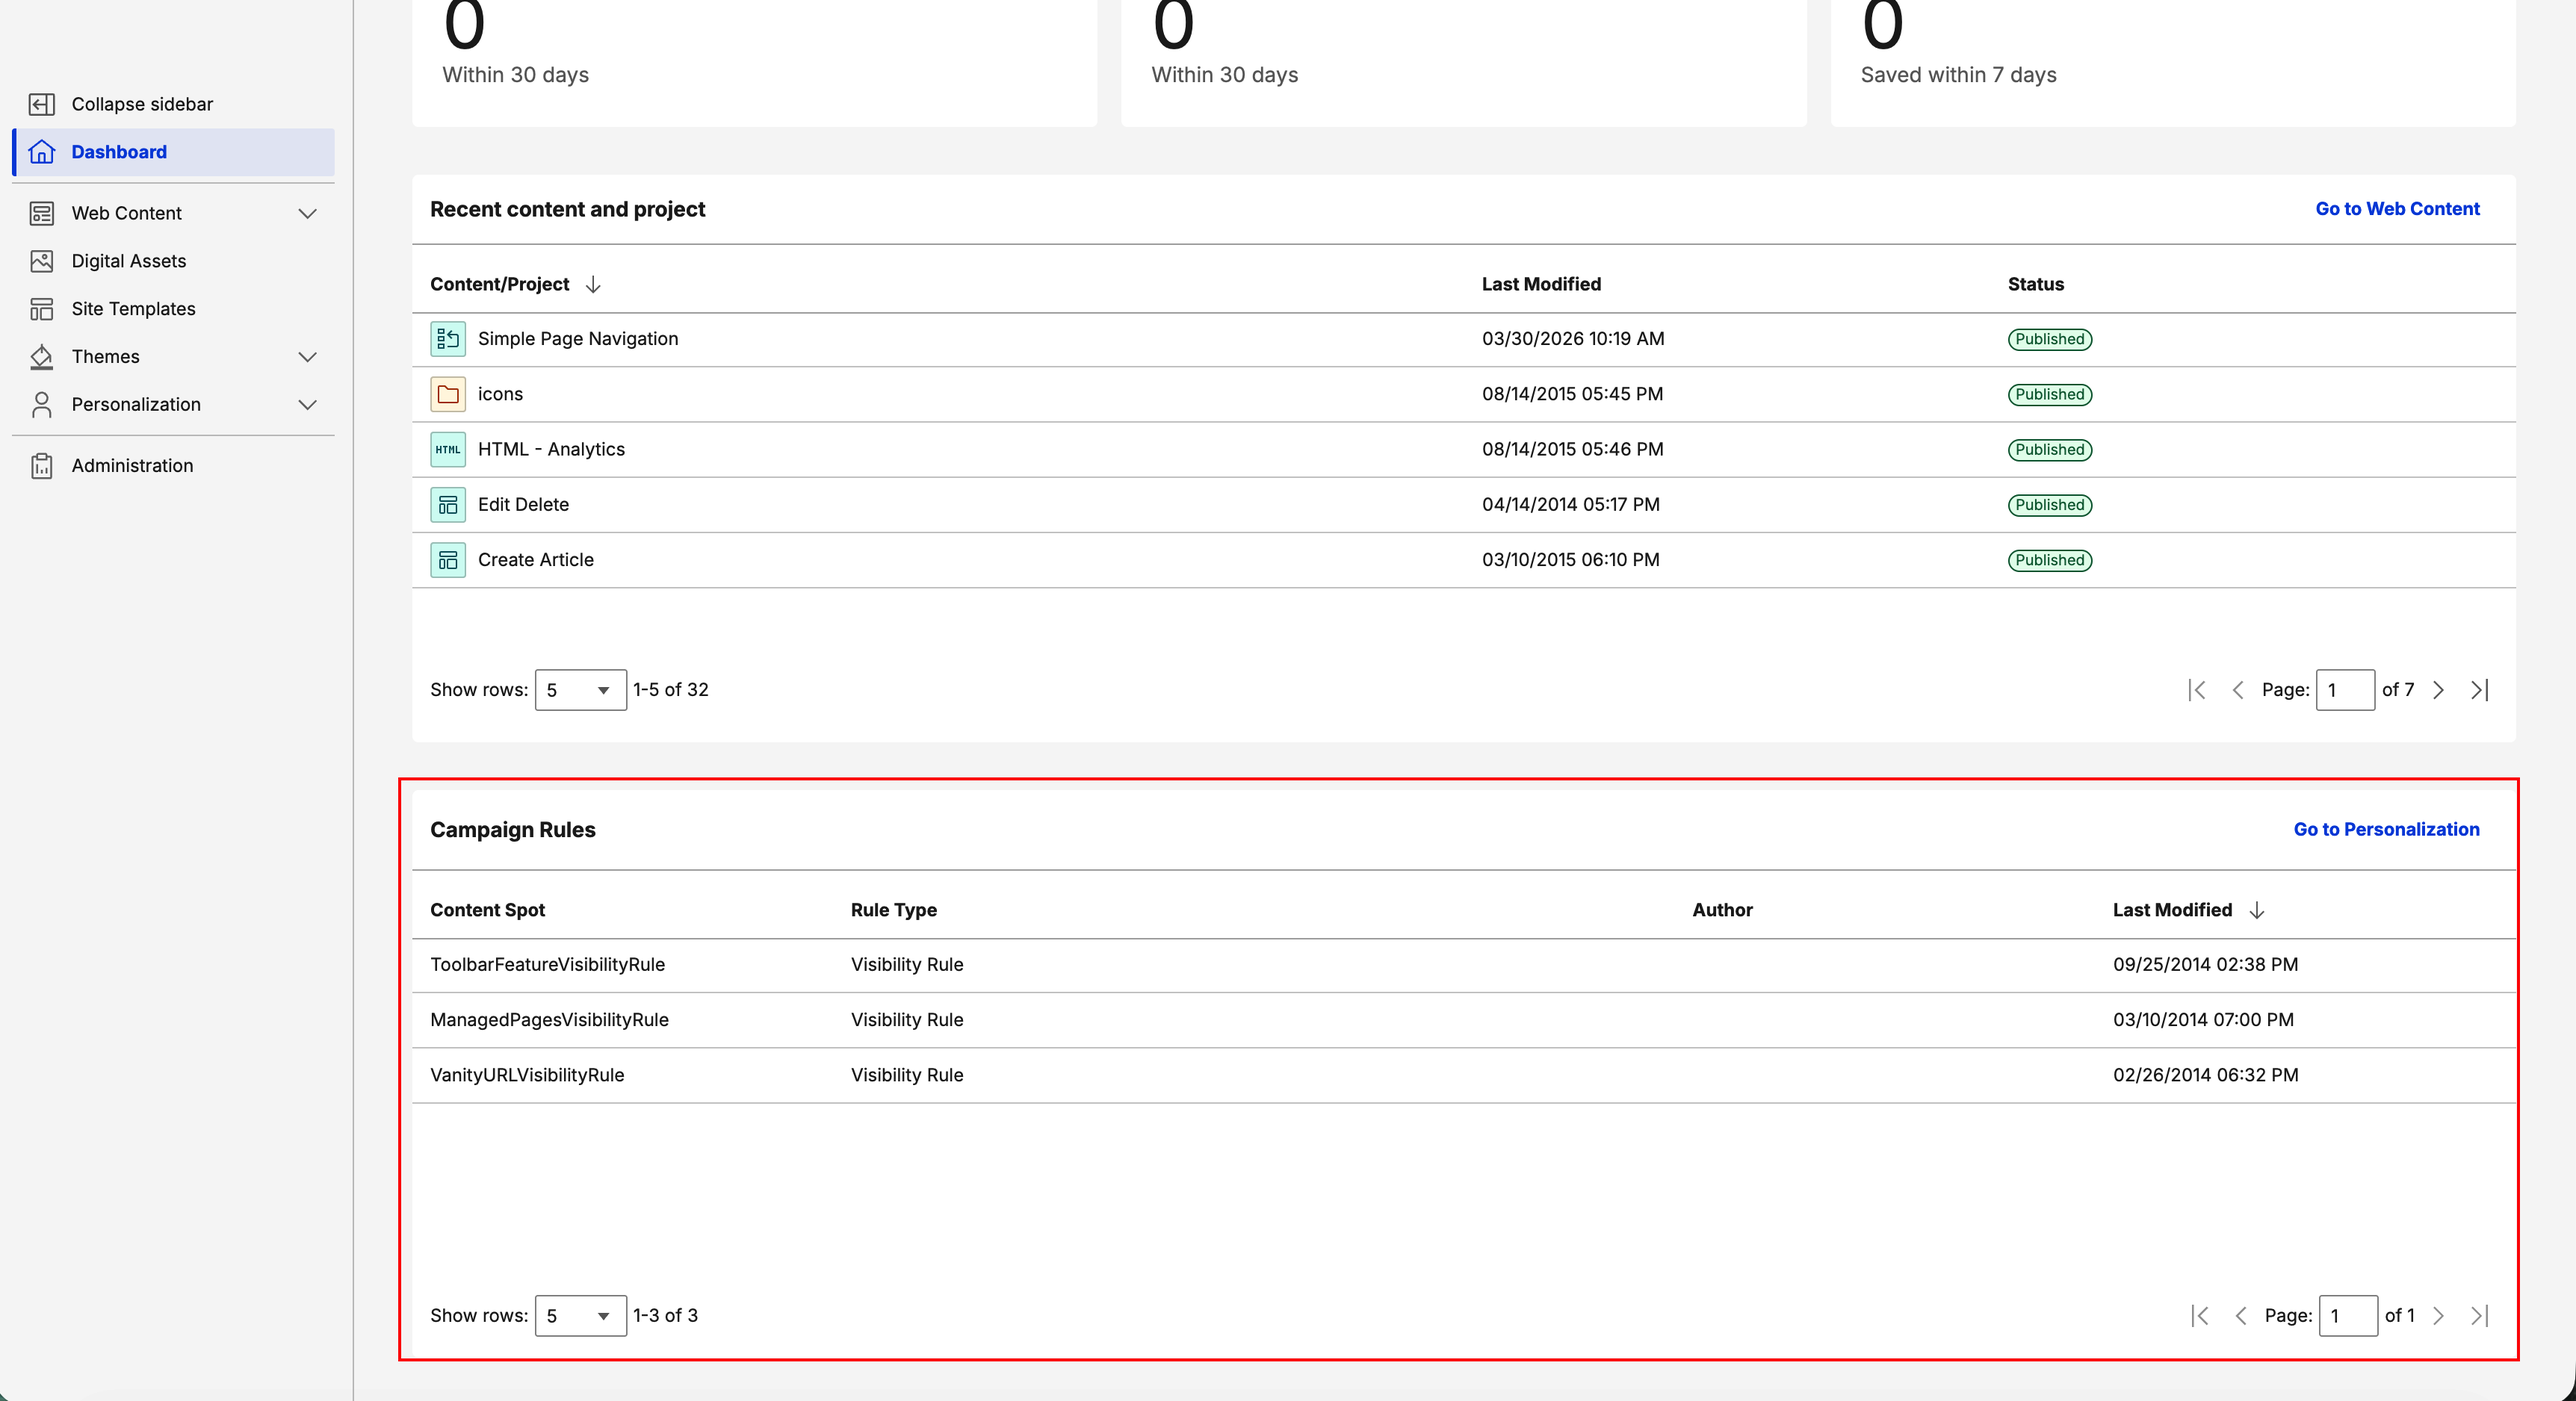
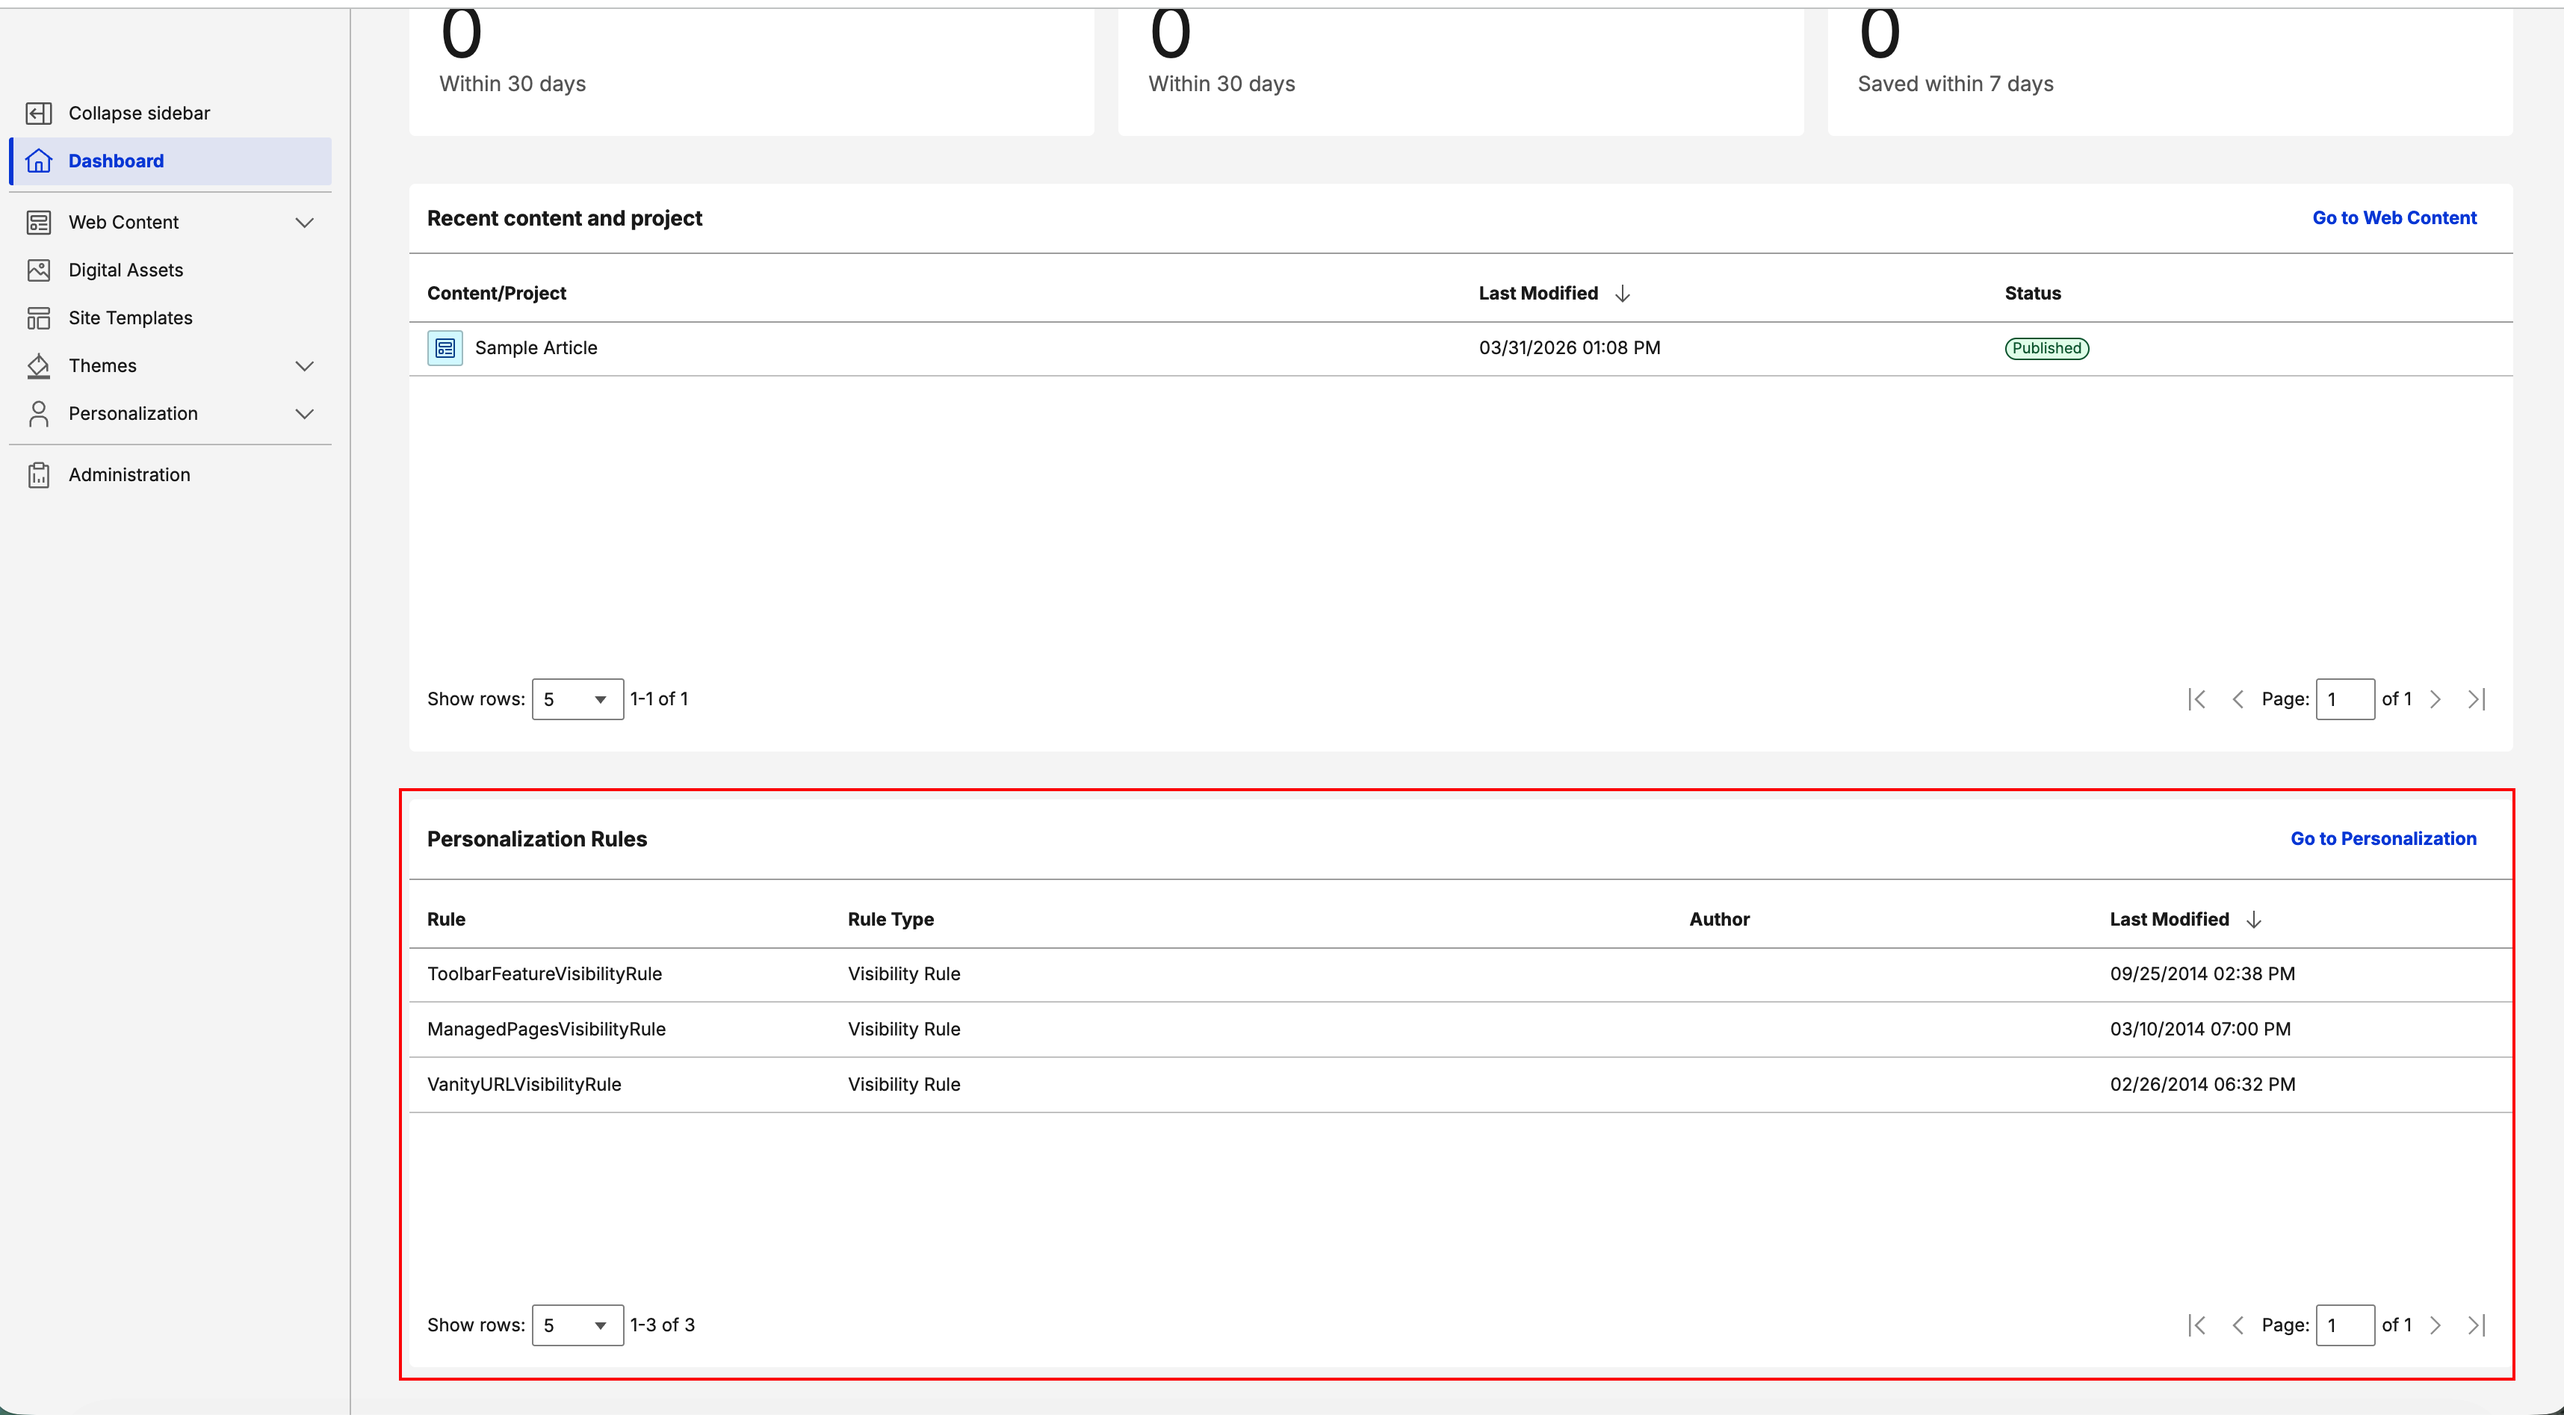
corrected sentence's

diff --git a/docs/build_sites/practitioner_studio/dashboard.md b/docs/build_sites/practitioner_studio/dashboard.md
@@ -2,16 +2,24 @@
 
 ## Overview
 
-The Practitioner Dashboard provides a personalized experience with widgets, action buttons, and quick links to help you access common tasks and information efficiently. The dashboard includes several key widgets: Tasks and Notifications for items that need approval or addressing, including expiring content; Recent Content Items for quick access to your latest work; and Personalization Rules (PZN) for managing user experiences. 
+The Practitioner Dashboard provides a personalized experience with widgets, action buttons, and quick links to help you access common tasks and information efficiently. The dashboard includes several key widgets: Status monitoring for items that need approval or addressing, including expiring content; Recent Content Items for quick access to your latest work; and Personalization Rules (PZN) for managing user experiences. 
 
-Additionally, the dashboard features an Interactive Banner that displays dynamic announcements, tips, and tutorials, such as notifications about new CF releases and helpful tutorials. Guided Activities are also available to provide product tours that accelerate the onboarding process for new users.
+Additionally, the dashboard features an Interactive Banner that displays dynamic announcements, tips, and tutorials, such as notifications about new CF releases and helpful tutorials.
 
 [](../../../../../assets/HCL_Practitioner_dashboard.png "Practitioner dashboard")
 
-## HCLSoftware U learning materials
+## Explore Digital Experience Info Hub
 
-For an introduction and a demo on how to use the Practitioner Dashboard, go to tutorial.
+The dashboard includes an "Explore Digital Experience" info hub section that provides quick access to helpful tutorials and documentation. This section features interactive cards with video tutorials and documentation links for common tasks such as:
 
+- **Create your first site** - Set up content, add assets, and customize your pages to fit your needs
+- **Upload media & files** - Get started by uploading images, videos, and files in Digital Assets Manager
+- **Manage theme** - Create, customize, and manage themes to control the visual appearance and user experience of your DX sites, including layout, styling, and branding elements
+- **Open search to Get Started** - Use the search bar to quickly find pages, documents, assets, or settings
+
+Each card offers two options: "Watch HCLSoftware U tutorial" for video demonstrations and "Read Documentation" for detailed written guides.
+
+The info hub section can be collapsed or expanded using the "Collapse info hub" toggle button to maximize your workspace.
 
 ## Quick Links
 
@@ -32,11 +40,15 @@ The Monitor section provides real-time visibility into content status and activi
 - **Published** - Shows the number of content items published within a customizable timeframe. Use the dropdown to filter by Today, Tomorrow, Within 7 days, Within 30 days, Within 90 days, or Within 365 days to track publishing activity and productivity.
 - **Drafts** - Indicates recently saved draft content items within a selected timeframe. Use the dropdown to filter by Today, Tomorrow, Within 7 days, Within 30 days, Within 90 days, or Within 365 days, making it easy to locate and resume work on in-progress content.
 
+!!! note 
+    - For **Expiring**: "Within 7 days" means from today to the next 6 days (future dates).
+    - For **Published** and **Drafts**: "Within 7 days" means from today to the previous 6 days (past dates).
+
 ![Monitor Section](../../assets/HCL_Practitioner_dashboard_monitor_section.png)
 
 ## Recent Content and Project
 
-The Recent Content and Project Widgets provides a comprehensive view of your most recently modified content items and projects. You can click on each items to view the content directly. A quick link to "Go to Web Content" is available in the top-right corner for quick access to the full Web Content management interface.
+The Recent Content and Project widget provides a comprehensive view of your most recently modified content items and projects. You can click on the eye icon of the content items to view the content directly. A quick link to "Go to Web Content" is available in the top-right corner for quick access to the full Web Content management interface.
 
 ![Recent Content](../../assets/HCL_Practitioner_dashboard_Recent_Content.png)
 
@@ -46,16 +58,16 @@ The Recent Content and Project Widgets provides a comprehensive view of your mos
 
 ## Personalization Rules
 
-The Personalization Rules widget provides quick access to monitor personalization (PZN) rules and campaigns that customize user experiences on your website. The widget displays personalization rules with relevant information including the rule name, status, and modified date. Click on the "Go to Personalization" link to navigate to the full personalization page for comprehensive management and configuration of your personalization rules.
+The Personalization Rules widget provides quick access to monitor personalization (PZN) rules that customize user experiences on your website. The widget displays personalization rules with relevant information including the rule name, type, author and modified date. Click on the "Go to Personalization" link to navigate to the full personalization page for comprehensive management and configuration of your personalization rules.
 
 ![Personalization Rules](../../assets/HCL_Practitioner_dashboard_Personalization_Rules.png)
 
 !!! note 
-    This widget displays only four rules as the API returns only four types: Visibility Rule, Profiler, Select Action, and Binding Rules.
+    This widget displays only four rules types: Visibility Rule, Profiler, Select Action, and Binding Rules.
 
 ## Widget Configuration Parameters
 
-The Practitioner Dashboard provides configurable widget preferences accessible through Practitioner Dashboard page preferences (Click on pencil icon of the dashboard page). You can customize which widgets appear on your dashboard by enabling or disabling them through the configuration parameters.
+The Practitioner Dashboard provides configurable widget preferences that allow you to customize which widgets appear on your dashboard. To access these preferences, navigate to **Admin** > **Site Management** > **Pages** > **Content Root** > **Practitioner Studio** > **Dashboard**, click on the pencil icon of the dashboard page, and then click on **Edit Shared Settings** to enable or disable widgets through the configuration parameters.
 
 ### Configuration Parameters
 
